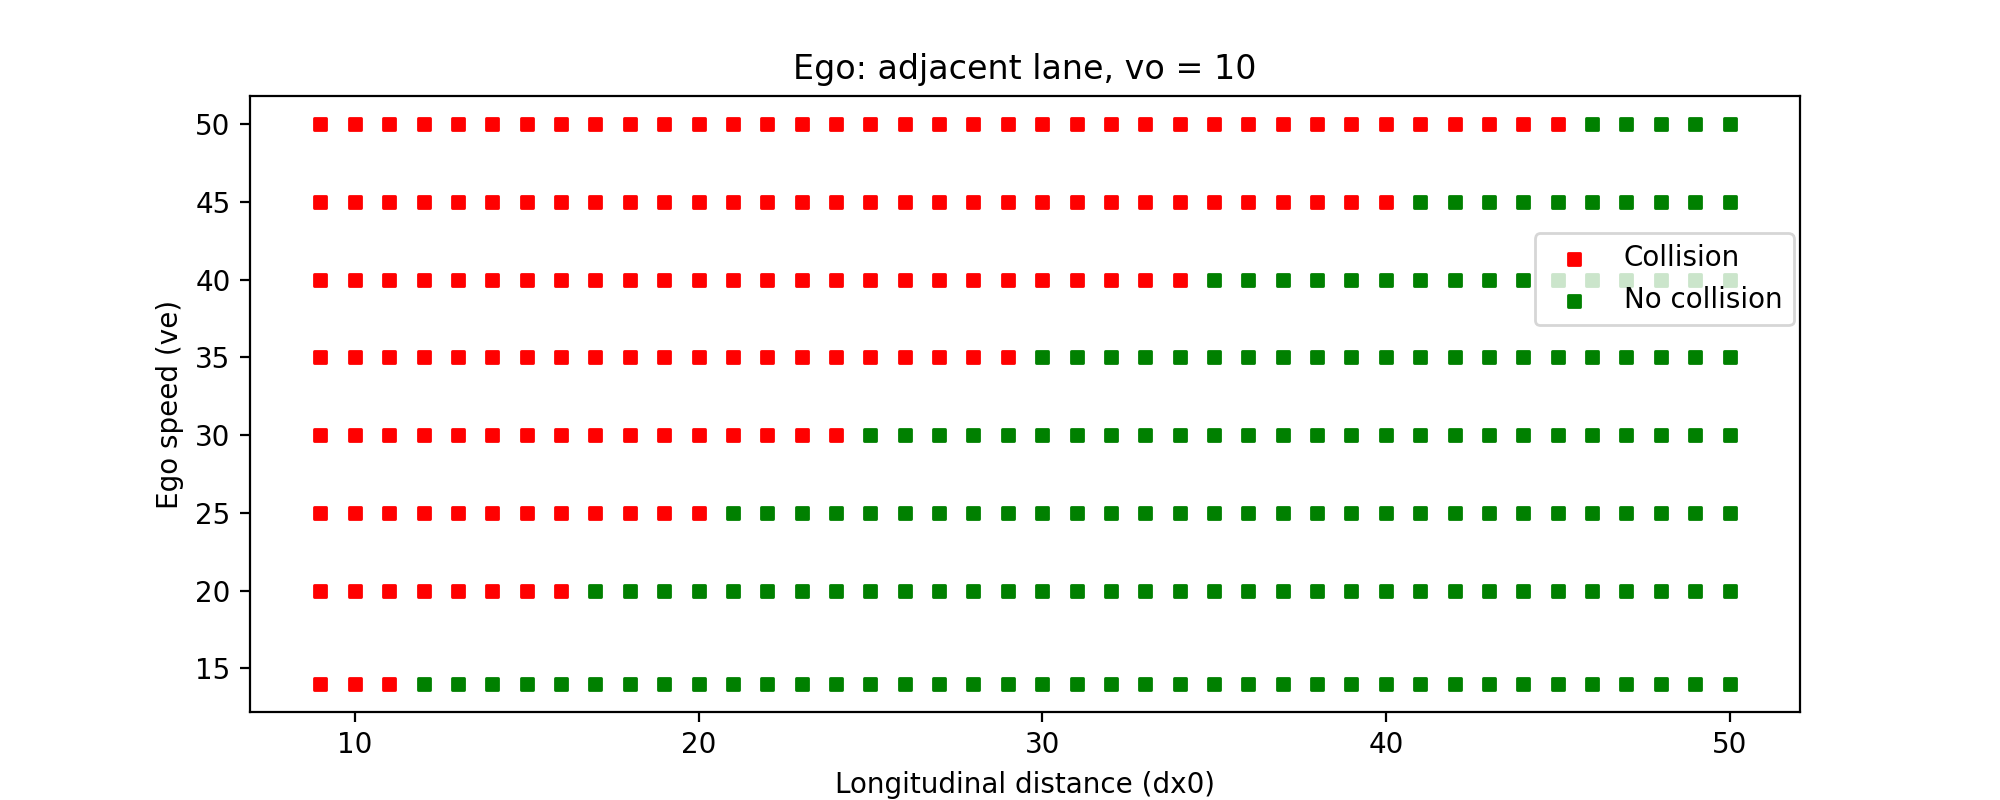
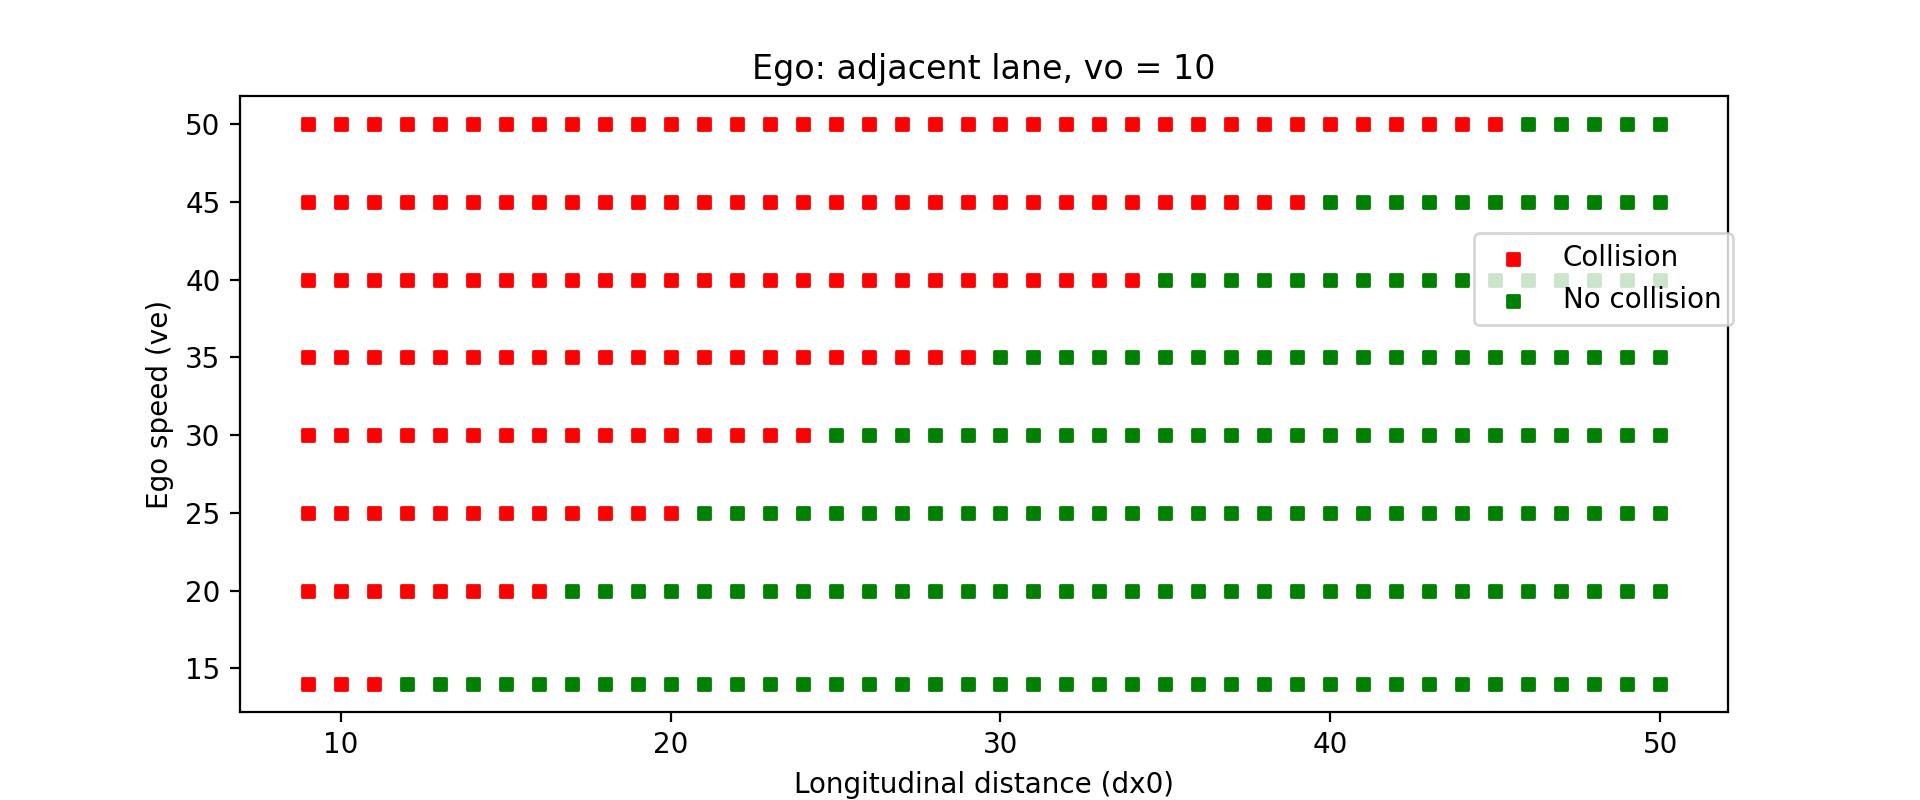
minor change

diff --git a/safety-benchmarks/common.py b/safety-benchmarks/common.py
@@ -166,8 +166,8 @@ carla_town07_env_config = {
     'npc_width': 1.8
 }
 awsim_env_config = {
-    'lane_width': 3.3,
-    'median_strip': 1.0,
+    'lane_width': 3.5,
+    'median_strip': 0.8,
     'ego_length': 4.9,
     'ego_width': 2.2,
     'npc_length': 4.0,
